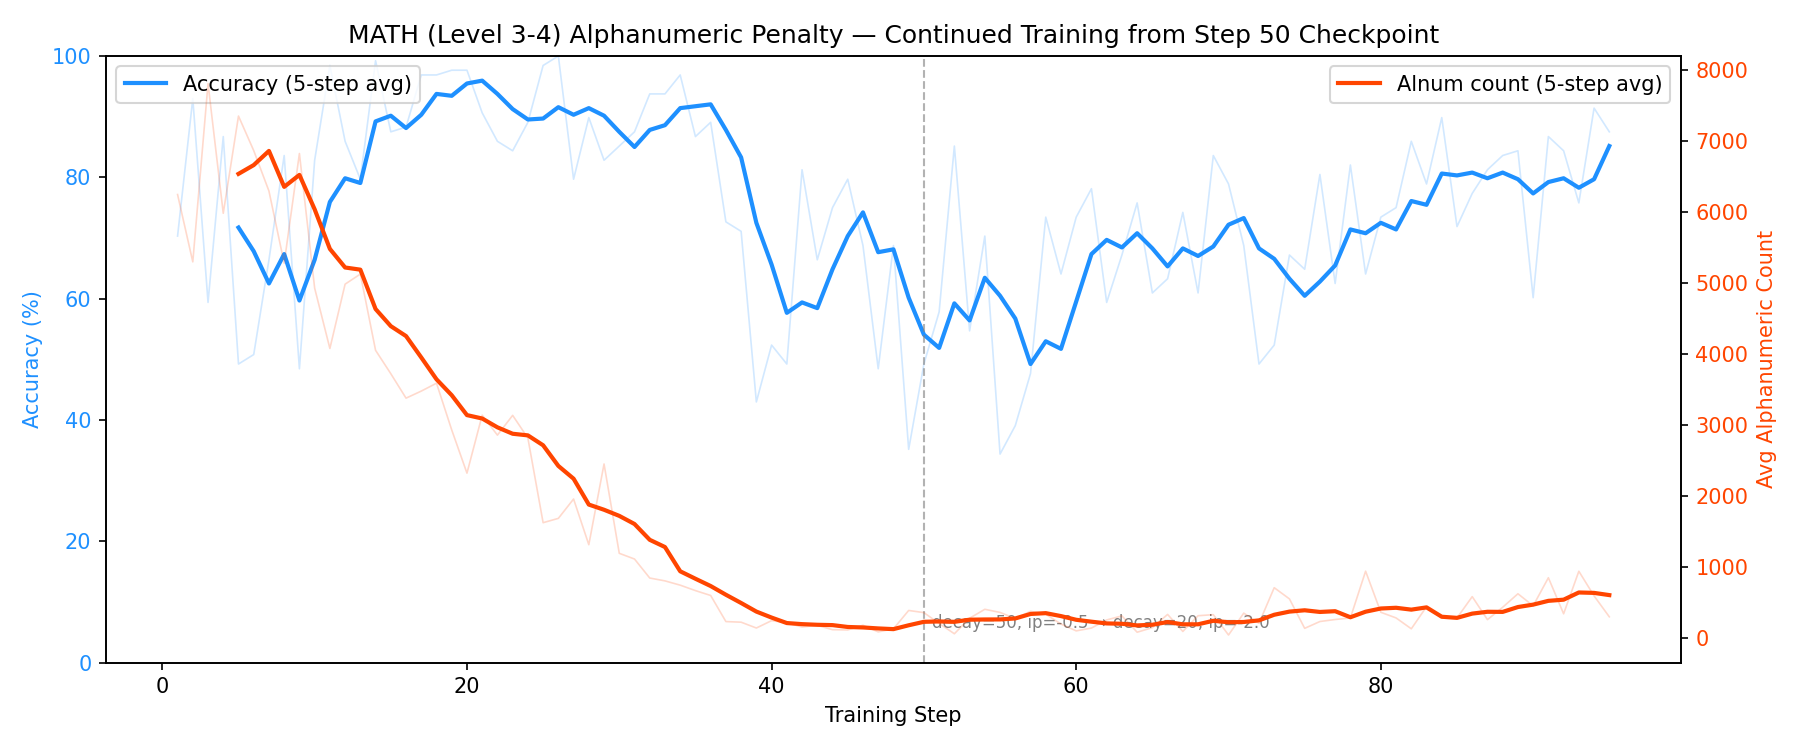
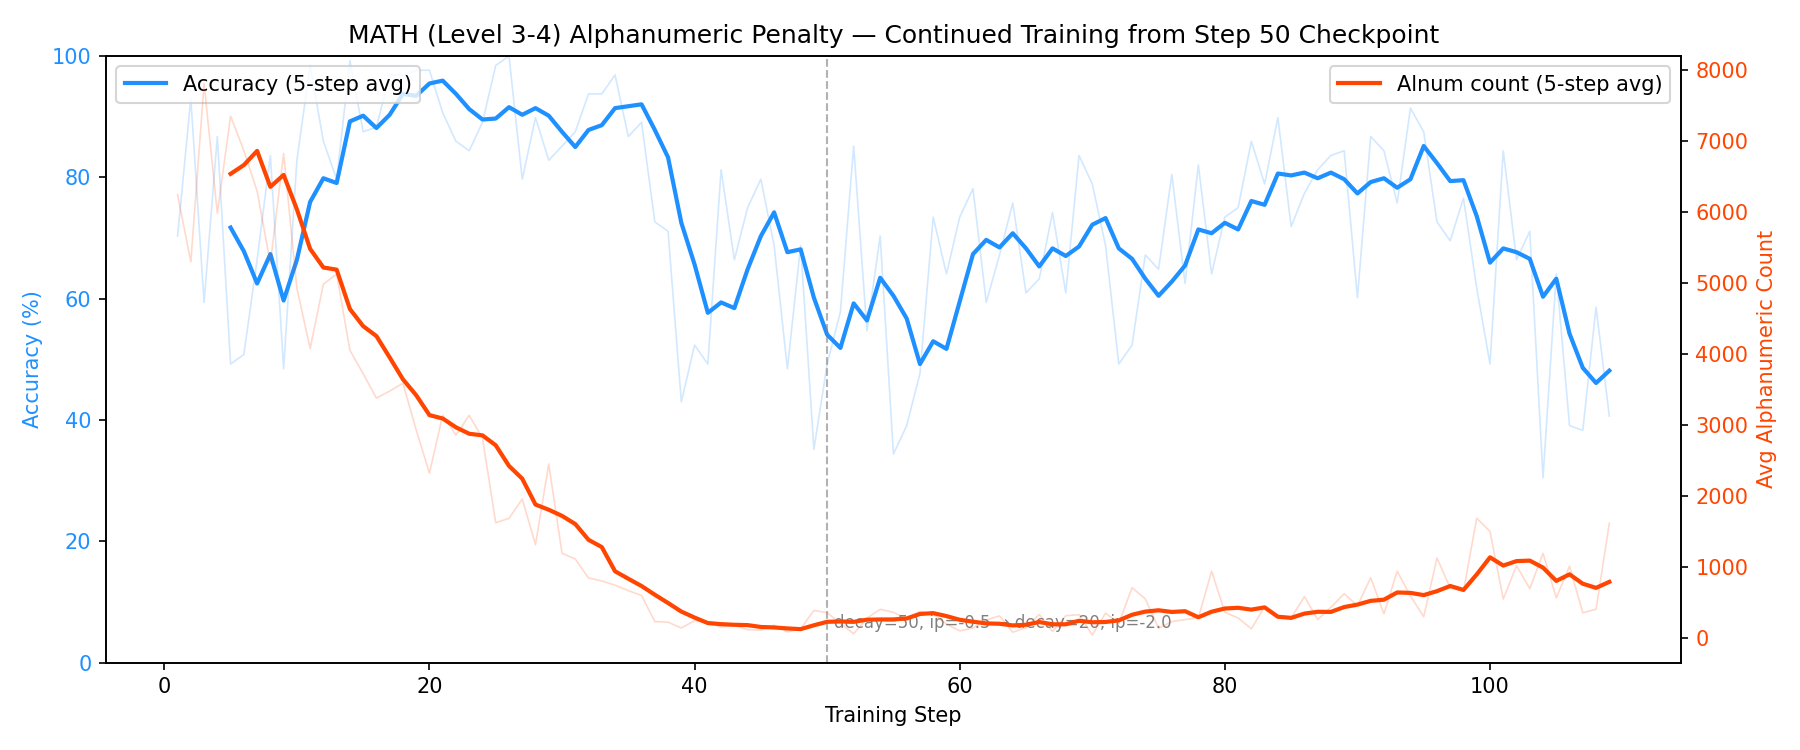
Add use_sqrt option to alnum penalties + math_alnum_exp entry point
Adds use_sqrt parameter (default True) to AlphanumericPenalty and
MathAlphanumericPenalty. When False, uses exp(-alnum/decay) instead
of exp(-sqrt(alnum)/decay) for more aggressive compression pressure.

New training command: math_alnum_exp (defaults: decay=5, ip=-2.0).
Also updates continued training plot to step 109.

diff --git a/src/train/rewards.py b/src/train/rewards.py
@@ -652,17 +652,20 @@ class AlphanumericPenalty(RewardFunction):
     Reward for correct answers with penalty on alphanumeric characters in reasoning.
     Forces the model to reason using symbols, punctuation, or other non-alphanumeric tokens.
 
-    If correct:  reward = correctness_reward * exp(-sqrt(alnum_count) / decay)
+    If correct:  reward = correctness_reward * exp(-f(alnum_count) / decay)
     If incorrect: reward = incorrect_penalty
+
+    where f is sqrt (default) or identity (use_sqrt=False).
     """
     return_extra_infos = True
     require_activations = False
     allow_logging = True
 
-    def __init__(self, correctness_reward: float = 1.0, decay: float = 10.0, incorrect_penalty: float = -0.5):
+    def __init__(self, correctness_reward: float = 1.0, decay: float = 10.0, incorrect_penalty: float = -0.5, use_sqrt: bool = True):
         self.correctness_reward = correctness_reward
         self.decay = decay
         self.incorrect_penalty = incorrect_penalty
+        self.use_sqrt = use_sqrt
 
     def compute_reward(self, examples, responses, activations=None, **kwargs):
         rewards = []
@@ -694,7 +697,8 @@ class AlphanumericPenalty(RewardFunction):
             response_for_counting = response[:last_boxed[-1].start()] + response[last_boxed[-1].end():] if last_boxed else response
             alnum_count = sum(1 for c in response_for_counting if c.isalnum())
             if correct:
-                reward = self.correctness_reward * math.exp(-math.sqrt(alnum_count) / self.decay)
+                x = math.sqrt(alnum_count) if self.use_sqrt else alnum_count
+                reward = self.correctness_reward * math.exp(-x / self.decay)
             else:
                 reward = self.incorrect_penalty
 
@@ -712,17 +716,20 @@ class MathAlphanumericPenalty(RewardFunction):
     Reward for correct answers with penalty on alphanumeric characters in reasoning.
     Uses math_verify for symbolic equivalence checking (supports fractions, expressions, etc.).
 
-    If correct:  reward = correctness_reward * exp(-sqrt(alnum_count) / decay)
+    If correct:  reward = correctness_reward * exp(-f(alnum_count) / decay)
     If incorrect: reward = incorrect_penalty
+
+    where f is sqrt (default) or identity (use_sqrt=False).
     """
     return_extra_infos = True
     require_activations = False
     allow_logging = True
 
-    def __init__(self, correctness_reward: float = 1.0, decay: float = 10.0, incorrect_penalty: float = -0.5):
+    def __init__(self, correctness_reward: float = 1.0, decay: float = 10.0, incorrect_penalty: float = -0.5, use_sqrt: bool = True):
         self.correctness_reward = correctness_reward
         self.decay = decay
         self.incorrect_penalty = incorrect_penalty
+        self.use_sqrt = use_sqrt
 
     @staticmethod
     def _extract_last_boxed(text: str) -> tuple[str | None, int, int]:
@@ -782,7 +789,8 @@ class MathAlphanumericPenalty(RewardFunction):
                 response_for_counting = response
             alnum_count = sum(1 for c in response_for_counting if c.isalnum())
             if correct:
-                reward = self.correctness_reward * math.exp(-math.sqrt(alnum_count) / self.decay)
+                x = math.sqrt(alnum_count) if self.use_sqrt else alnum_count
+                reward = self.correctness_reward * math.exp(-x / self.decay)
             else:
                 reward = self.incorrect_penalty
 

diff --git a/scripts/run_rl_training.py b/scripts/run_rl_training.py
@@ -709,6 +709,48 @@ def run_math5_alnum(
     )
 
 
+def run_math_alnum_exp(
+    model_id: str = "Qwen/Qwen3-4B",
+    steps: int = 500,
+    seed: int = 1,
+    decay: float = 5.0,
+    incorrect_penalty: float = -2.0,
+    num_generations: int = 16,
+    num_prompts: int = 8,
+    temperature: float = 1.0,
+    max_completion_length: int = 4096,
+    beta: float = 0.001,
+):
+    """Train on MATH (Level 3-4) with aggressive alphanumeric penalty — exp(-alnum/decay), no sqrt."""
+    run_name = f"math_alnum_exp_d{decay}_ip{incorrect_penalty}"
+    main_run_rl(
+        run_name=run_name,
+        task="train",
+        base_dataset_path=f"{RESULTS_PATH}/data/math.jsonl",
+        model_id=model_id,
+        steps=steps,
+        seed=seed,
+        num_generations=num_generations,
+        num_prompts=num_prompts,
+        max_prompt_length=1024,
+        max_completion_length=max_completion_length,
+        temperature=temperature,
+        top_p=0.95,
+        beta=beta,
+        enable_thinking=True,
+        system_prompt="Solve the problem step by step. Put your final answer in \\boxed{}.",
+        system_prompt_method="replace",
+        reward_funcs_kwargs={
+            "MathAlphanumericPenalty": {
+                "decay": decay,
+                "incorrect_penalty": incorrect_penalty,
+                "use_sqrt": False,
+            }
+        },
+        screening_funcs_kwargs={},
+    )
+
+
 if __name__ == "__main__":
     utils.load_dotenv()
     fire.Fire({
@@ -724,6 +766,7 @@ if __name__ == "__main__":
         'gsm8k_alnum': run_gsm8k_alnum,
         'gsm8k_judge': run_gsm8k_llm_judge,
         'math_alnum': run_math_alnum,
+        'math_alnum_exp': run_math_alnum_exp,
         'aime_alnum': run_aime_alnum,
         'math5_alnum': run_math5_alnum,
     })
